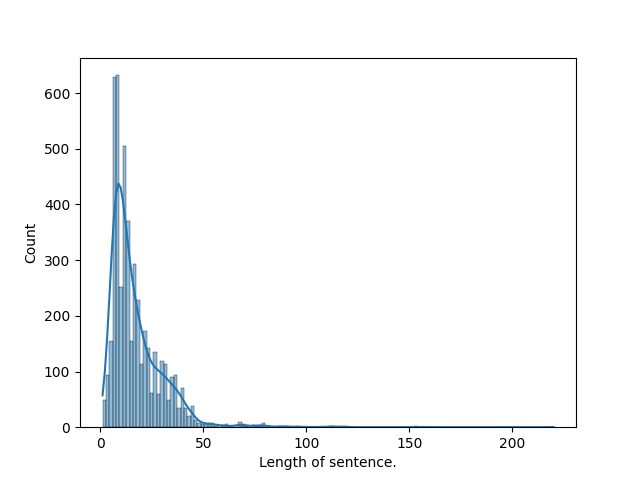
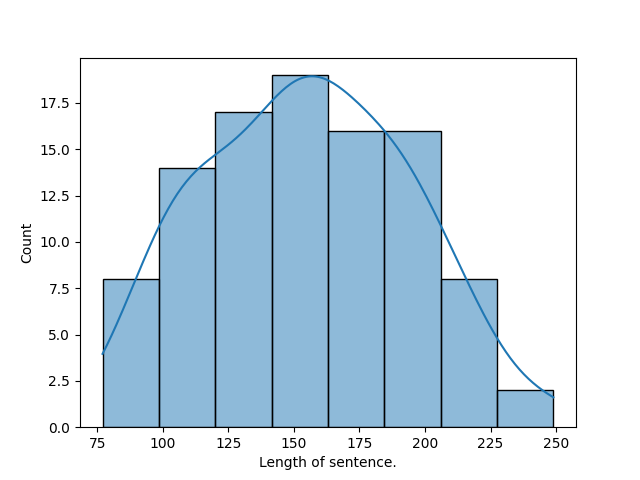
Add finetuning on Physics Dataset

diff --git a/FINE_TUNE_GPT2/finetune_collab.py b/FINE_TUNE_GPT2/finetune_collab.py
@@ -1,8 +1,7 @@
-from secrets import token_bytes
-import tokenize
 import matplotlib.pyplot as plt 
 import seaborn as sns
 import pandas as pd 
+import numpy as np 
 import torch.nn as nn
 from torch.utils.data import DataLoader, Dataset, random_split
 import os 
@@ -12,25 +11,71 @@ from colorama import Style, Fore
 import time
 import torch
 
+# def prepare_spam_data(debug = False, batch_size = 2):
+#     df = pd.read_csv(os.path.join("dataset", "spam.csv"), encoding='latin1')
+#     df_ham = df[df['v1'] == 'ham'][['v2']]
+#     '''
+#     It handles punctuation intelligently (e.g., separating punctuation from words).
+#     It accounts for contractions (e.g., "don't" is split into ["do", "n't"]).
+#     '''
+#     # df_ham['sentence'] = df_ham['v2'].apply(lambda sentence: nltk.word_tokenize(sentence))
+#     df_ham['sentence'] = df_ham['v2']
+#     df_ham.drop(columns = ['v2'], axis = 1, inplace = True)
+#     df_ham['length'] = df_ham['sentence'].apply(lambda x: len(x))
+#     if debug:
+#         sns.histplot(data = df_ham, x = 'length', kde = True)
+#         plt.xlabel('Length of sentence.')
+#         plt.savefig(os.path.join('plots', 'SentenceLength.png'))
+#         plt.clf()
+#     class CustomDataset(Dataset):
+#         def __init__(self, txt_list, tokenizer, max_length = 128):
+#             self.input_ids, self.attn_masks = [], []
+#             for txt in txt_list:
+#                 encoding_dict = tokenizer('<|start|>' + txt + '<|end|>', \
+#                                           truncation = True, \
+#                                           padding = 'max_length', \
+#                                           max_length = max_length)
+#                 self.input_ids.append(encoding_dict['input_ids'])
+#                 self.attn_masks.append(encoding_dict['attention_mask'])
+#         def __len__(self):
+#             return len(self.input_ids)
+#         def __getitem__(self, idx):
+#             return self.input_ids[idx], self.attn_masks[idx]
+#     '''
+#         In GPT-2, the default value for tokenizer.bos_token_id is None 
+#         because GPT-2 does not use a beginning-of-sequence (BOS) token by default.
+#     '''
+#     tokenizer = GPT2Tokenizer.from_pretrained('gpt2', bos_token='<|start|>', \
+#                                               eos_token='<|end|>', pad_token='<|pad|>')
+#     print(f'{Fore.CYAN}[TOKNIZR] Mx model length: {tokenizer.model_max_length}. '+\
+#           f'GPT small: 768{Style.RESET_ALL}')
+#     print(f'{Fore.CYAN}[TOKNIZR] Beginning of seq: {tokenizer.decode(tokenizer.bos_token_id)}, '+\
+#           f'has token id: {tokenizer.bos_token_id}{Style.RESET_ALL}')
+#     print(f'{Fore.CYAN}[TOKNIZR] End of seq: {tokenizer.decode(tokenizer.eos_token_id)}, '+\
+#           f'has token id: {tokenizer.eos_token_id}{Style.RESET_ALL}')
+#     print(f'{Fore.CYAN}[TOKNIZR] Padding of seq: {tokenizer.decode(tokenizer.pad_token_id)}, '+\
+#           f'has token id: {tokenizer.pad_token_id}{Style.RESET_ALL}')
+#     dataset = CustomDataset(df_ham['sentence'], tokenizer)
+#     tr_size = int(0.95 * len(dataset))
+#     train_dataset, validation_dataset = random_split(dataset, [tr_size, len(dataset) - tr_size])
+#     train_loader = DataLoader(train_dataset, shuffle = True, batch_size = batch_size)
+#     validation_loader = DataLoader(validation_dataset, shuffle = False, batch_size = batch_size)
+#     return train_loader, validation_loader, tokenizer
 
-def prepare_spam_data(debug = False, batch_size = 2):
-    df = pd.read_csv(os.path.join("dataset", "spam.csv"), encoding='latin1')
-    df_ham = df[df['v1'] == 'ham'][['v2']]
-    '''
-    It handles punctuation intelligently (e.g., separating punctuation from words).
-    It accounts for contractions (e.g., "don't" is split into ["do", "n't"]).
-    '''
-    # df_ham['sentence'] = df_ham['v2'].apply(lambda sentence: nltk.word_tokenize(sentence))
-    df_ham['sentence'] = df_ham['v2']
-    df_ham.drop(columns = ['v2'], axis = 1, inplace = True)
-    df_ham['length'] = df_ham['sentence'].apply(lambda x: len(x))
+def prepare_data(debug = False, batch_size = 2):
+    df = pd.read_csv(os.path.join("dataset", "physicsQ.csv"), encoding='latin1')
+    df_ham = df.copy()
+    df_ham["Prompt"] = df_ham["Prompt"] + df_ham["Question"]
+    df_ham.rename(columns = {"Prompt":"sentence"}, inplace = True)
+    df_ham.drop(columns = ["Question"], inplace = True)
+    df_ham['length'] = df_ham['sentence'].apply(lambda x: len(x.split()))
     if debug:
         sns.histplot(data = df_ham, x = 'length', kde = True)
         plt.xlabel('Length of sentence.')
         plt.savefig(os.path.join('plots', 'SentenceLength.png'))
         plt.clf()
     class CustomDataset(Dataset):
-        def __init__(self, txt_list, tokenizer, max_length = 128):
+        def __init__(self, txt_list, tokenizer, max_length = 256):
             self.input_ids, self.attn_masks = [], []
             for txt in txt_list:
                 encoding_dict = tokenizer('<|start|>' + txt + '<|end|>', \
@@ -145,7 +190,7 @@ def TRAIN_SAVE(epochs = 5):
     # ==========================================
     #  Load Tokenizer, Model & Prepare Data
     # ==========================================
-    train_loader, validation_loader, tokenizer = prepare_spam_data()
+    train_loader, validation_loader, tokenizer = prepare_data()
     configurations = GPT2Config.from_pretrained('gpt2', output_hidden_states = False)
     print(f'{Fore.GREEN}[GPT2]:\n{configurations}{Style.RESET_ALL}')
     '''
@@ -222,4 +267,7 @@ def GENERATE(prompt):
 # ==========================================
 if __name__ == '__main__':
     TRAIN_SAVE(epochs = 1)
-    GENERATE('The sun will')
+    # Prompt 1
+    df = pd.read_csv(os.path.join("dataset", "physicsQ.csv"), encoding = "latin1")
+    idx = np.random.randint(0, df.shape[0])
+    GENERATE(df.iloc[idx]["Prompt"])
